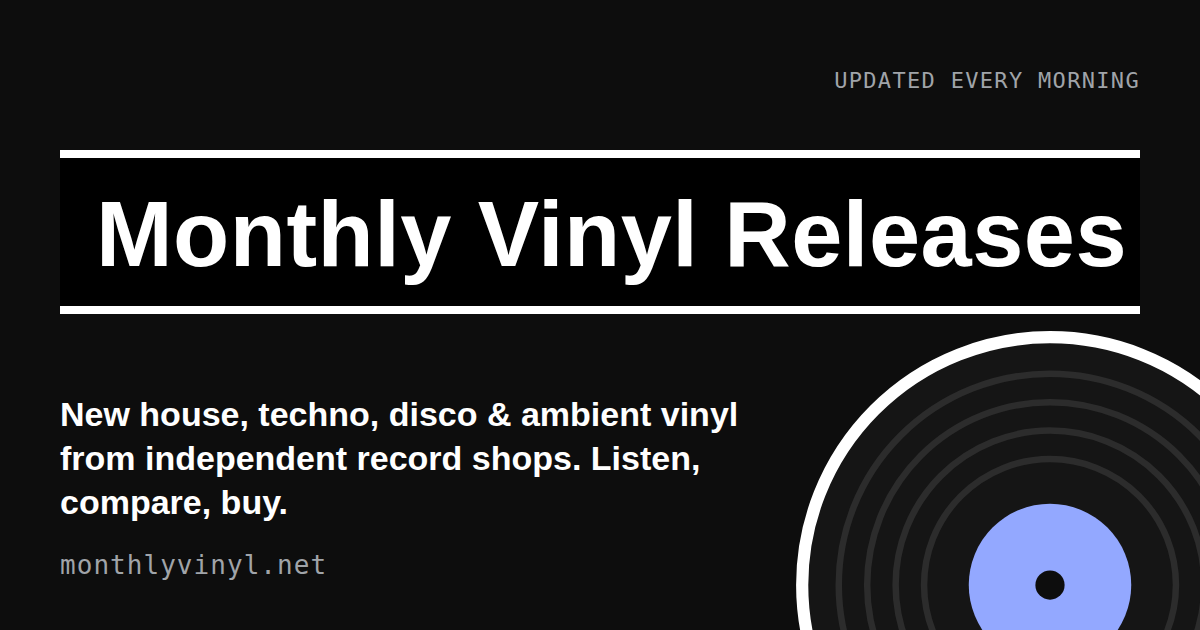
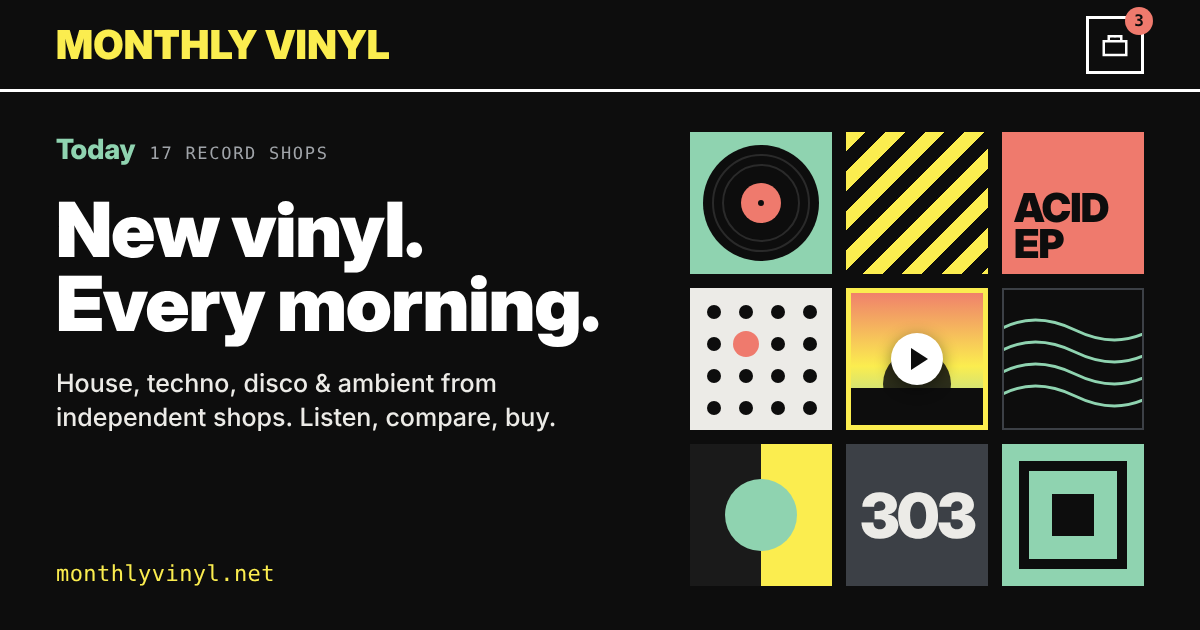
Neues Vorschaubild (og-image-v2.png) im neuen Webdesign
Claude-Session: https://claude.ai/code/session_01AWU1wCWLDa76D1kUH9S5JS

diff --git a/tools/og-image.html b/tools/og-image.html
@@ -1,0 +1,56 @@
+<!doctype html>
+<html><head><meta charset="utf-8">
+<style>
+:root{--bg:#0d0d0d;--deep:#1a1a1a;--fg:#ecebe7;--muted:#a0a4a9;--line:#3c4046;
+--neon:#8fd3b0;--pink:#ef7a6d;--yellow:#fbed4f;--white:#fff;--ink:#0d0d0d}
+*{box-sizing:border-box;margin:0}
+html,body{width:1200px;height:630px;background:var(--bg);overflow:hidden}
+body{font-family:"Inter",sans-serif;color:var(--fg);position:relative}
+.top{position:absolute;left:0;right:0;top:0;height:92px;display:flex;align-items:center;justify-content:space-between;padding:0 56px;border-bottom:3px solid var(--white)}
+.logo{font-family:"Inter Display";font-weight:900;font-size:40px;letter-spacing:.01em;color:var(--yellow);text-transform:uppercase}
+.bag{position:relative;width:58px;height:58px;border:3px solid var(--white);display:flex;align-items:center;justify-content:center}
+.bag svg{width:30px;height:30px}
+.bag b{position:absolute;top:-12px;right:-12px;min-width:28px;height:28px;padding:0 7px;border-radius:14px;background:var(--pink);color:var(--ink);font:700 16px/28px "DejaVu Sans Mono";text-align:center}
+.left{position:absolute;left:56px;top:132px;width:560px}
+.day{font:500 17px "DejaVu Sans Mono";letter-spacing:.1em;text-transform:uppercase;color:var(--muted);display:flex;gap:14px;align-items:baseline}
+.day b{font-family:"Inter Display";font-weight:800;font-size:28px;letter-spacing:0;text-transform:none;color:var(--neon)}
+h1{font-family:"Inter Display";font-weight:900;font-size:76px;line-height:.98;letter-spacing:-.015em;color:var(--white);margin-top:26px}
+p{font-size:25px;line-height:1.35;color:var(--fg);margin-top:26px;font-weight:500}
+.url{position:absolute;left:56px;bottom:44px;font:500 22px "DejaVu Sans Mono";color:var(--yellow);letter-spacing:.02em}
+.grid{position:absolute;right:56px;top:132px;display:grid;grid-template-columns:repeat(3,142px);gap:14px}
+.t{width:142px;height:142px;position:relative;overflow:hidden;background:var(--deep)}
+.t.play::after{content:"";position:absolute;inset:0;border:5px solid var(--yellow)}
+.pb{position:absolute;left:50%;top:50%;width:52px;height:52px;margin:-26px 0 0 -26px;border-radius:50%;background:var(--white);display:flex;align-items:center;justify-content:center;box-shadow:0 4px 16px rgba(0,0,0,.45)}
+.pb i{width:0;height:0;border-left:17px solid var(--ink);border-top:11px solid transparent;border-bottom:11px solid transparent;margin-left:5px}
+</style></head><body>
+<header class="top">
+  <div class="logo">Monthly Vinyl</div>
+  <div class="bag"><svg viewBox="0 0 24 24" fill="none" stroke="#fff" stroke-width="2"><path d="M3 9h18v11H3z"/><path d="M7 9V5h10v4"/><path d="M7 5h2M11 5h2M15 5h2" stroke-width="1.6"/></svg><b>3</b></div>
+</header>
+<div class="left">
+  <div class="day"><b>Today</b><span>17 record shops</span></div>
+  <h1>New vinyl.<br>Every morning.</h1>
+  <p>House, techno, disco &amp; ambient from independent shops. Listen, compare, buy.</p>
+</div>
+<div class="url">monthlyvinyl.net</div>
+<div class="grid">
+  <!-- 1 concentric record -->
+  <div class="t" style="background:var(--neon)"><svg width="142" height="142"><circle cx="71" cy="71" r="58" fill="#0d0d0d"/><circle cx="71" cy="71" r="48" fill="none" stroke="#2a2a2a" stroke-width="2"/><circle cx="71" cy="71" r="38" fill="none" stroke="#2a2a2a" stroke-width="2"/><circle cx="71" cy="71" r="20" fill="var(--pink)"/><circle cx="71" cy="71" r="3" fill="#0d0d0d"/></svg></div>
+  <!-- 2 stripes -->
+  <div class="t" style="background:repeating-linear-gradient(135deg,var(--yellow) 0 14px,#0d0d0d 14px 28px)"></div>
+  <!-- 3 type cover -->
+  <div class="t" style="background:var(--pink);display:flex;align-items:flex-end;padding:12px"><span style="font:900 40px/0.9 'Inter Display';color:#0d0d0d;letter-spacing:-.02em">ACID<br>EP</span></div>
+  <!-- 4 grid dots -->
+  <div class="t" style="background:#ecebe7"><svg width="142" height="142"><g fill="#0d0d0d"><circle cx="24" cy="24" r="7"/><circle cx="56" cy="24" r="7"/><circle cx="88" cy="24" r="7"/><circle cx="120" cy="24" r="7"/><circle cx="24" cy="56" r="7"/><circle cx="56" cy="56" r="13" fill="var(--pink)"/><circle cx="88" cy="56" r="7"/><circle cx="120" cy="56" r="7"/><circle cx="24" cy="88" r="7"/><circle cx="56" cy="88" r="7"/><circle cx="88" cy="88" r="7"/><circle cx="120" cy="88" r="7"/><circle cx="24" cy="120" r="7"/><circle cx="56" cy="120" r="7"/><circle cx="88" cy="120" r="7"/><circle cx="120" cy="120" r="7"/></g></svg></div>
+  <!-- 5 playing: sunset gradient -->
+  <div class="t play" style="background:linear-gradient(180deg,#ef7a6d 0%,#fbed4f 55%,#8fd3b0 100%)"><svg width="142" height="142" style="position:absolute;inset:0"><circle cx="71" cy="96" r="34" fill="#0d0d0d" opacity=".85"/><rect x="0" y="100" width="142" height="42" fill="#0d0d0d"/></svg><div class="pb"><i></i></div></div>
+  <!-- 6 dark waves -->
+  <div class="t" style="background:#0d0d0d;border:2px solid #3c4046"><svg width="142" height="142"><g fill="none" stroke="var(--neon)" stroke-width="3"><path d="M-5 40 Q 30 20 71 40 T 147 40"/><path d="M-5 62 Q 30 42 71 62 T 147 62"/><path d="M-5 84 Q 30 64 71 84 T 147 84"/><path d="M-5 106 Q 30 86 71 106 T 147 106"/></g></svg></div>
+  <!-- 7 split -->
+  <div class="t" style="background:linear-gradient(90deg,#1a1a1a 50%,var(--yellow) 50%)"><svg width="142" height="142"><circle cx="71" cy="71" r="36" fill="var(--neon)"/></svg></div>
+  <!-- 8 big number -->
+  <div class="t" style="background:#3c4046;display:flex;align-items:center;justify-content:center"><span style="font:900 62px 'Inter Display';color:#ecebe7;letter-spacing:-.04em">303</span></div>
+  <!-- 9 squares -->
+  <div class="t" style="background:var(--neon)"><svg width="142" height="142"><rect x="22" y="22" width="98" height="98" fill="none" stroke="#0d0d0d" stroke-width="10"/><rect x="50" y="50" width="42" height="42" fill="#0d0d0d"/></svg></div>
+</div>
+</body></html>

diff --git a/all/index.html b/all/index.html
@@ -17,7 +17,7 @@
 <meta property="og:title" content="Monthly Vinyl Releases – new house, techno, disco &amp; ambient vinyl">
 <meta property="og:description" content="New house, techno, disco &amp; ambient vinyl from independent shops like Hardwax, Clone and Phonica. Listen, compare prices, order per shop. Updated daily.">
 <meta property="og:url" content="https://monthlyvinyl.net/">
-<meta property="og:image" content="https://monthlyvinyl.net/og-image.png">
+<meta property="og:image" content="https://monthlyvinyl.net/og-image-v2.png">
 <meta property="og:image:width" content="1200">
 <meta property="og:image:height" content="630">
 <meta property="og:image:alt" content="Monthly Vinyl Releases – new vinyl from independent record shops, updated every morning">

diff --git a/index.html b/index.html
@@ -16,7 +16,7 @@
 <meta property="og:title" content="Monthly Vinyl Releases – new house, techno, disco &amp; ambient vinyl">
 <meta property="og:description" content="New house, techno, disco &amp; ambient vinyl from independent shops like Hardwax, Clone and Phonica. Listen, compare prices, order per shop. Updated daily.">
 <meta property="og:url" content="https://monthlyvinyl.net/">
-<meta property="og:image" content="https://monthlyvinyl.net/og-image.png">
+<meta property="og:image" content="https://monthlyvinyl.net/og-image-v2.png">
 <meta property="og:image:width" content="1200">
 <meta property="og:image:height" content="630">
 <meta property="og:image:alt" content="Monthly Vinyl Releases – new vinyl from independent record shops, updated every morning">

diff --git a/minimal-techno/index.html b/minimal-techno/index.html
@@ -10,7 +10,7 @@
 <meta property="og:title" content="New Minimal Techno Vinyl Releases – October 2026 | Monthly Vinyl Releases">
 <meta property="og:description" content="19 new minimal techno vinyl records from independent shops like Hardwax, Clone and Phonica. Listen, compare prices, order per shop. Updated daily.">
 <meta property="og:url" content="https://monthlyvinyl.net/minimal-techno/">
-<meta property="og:image" content="https://monthlyvinyl.net/og-image.png">
+<meta property="og:image" content="https://monthlyvinyl.net/og-image-v2.png">
 <link rel="icon" type="image/png" href="/favicon-32.png?v=2">
 <link rel="apple-touch-icon" href="/apple-touch-icon.png?v=2">
 <meta name="theme-color" content="#0d0d0d">

diff --git a/chicago-house/index.html b/chicago-house/index.html
@@ -10,7 +10,7 @@
 <meta property="og:title" content="New Chicago House Vinyl Releases – October 2026 | Monthly Vinyl Releases">
 <meta property="og:description" content="18 new chicago house vinyl records from independent shops like Hardwax, Clone and Phonica. Listen, compare prices, order per shop. Updated daily.">
 <meta property="og:url" content="https://monthlyvinyl.net/chicago-house/">
-<meta property="og:image" content="https://monthlyvinyl.net/og-image.png">
+<meta property="og:image" content="https://monthlyvinyl.net/og-image-v2.png">
 <link rel="icon" type="image/png" href="/favicon-32.png?v=2">
 <link rel="apple-touch-icon" href="/apple-touch-icon.png?v=2">
 <meta name="theme-color" content="#0d0d0d">

diff --git a/detroit-house/index.html b/detroit-house/index.html
@@ -10,7 +10,7 @@
 <meta property="og:title" content="New Detroit House Vinyl Releases – October 2026 | Monthly Vinyl Releases">
 <meta property="og:description" content="20 new detroit house vinyl records from independent shops like Hardwax, Clone and Phonica. Listen, compare prices, order per shop. Updated daily.">
 <meta property="og:url" content="https://monthlyvinyl.net/detroit-house/">
-<meta property="og:image" content="https://monthlyvinyl.net/og-image.png">
+<meta property="og:image" content="https://monthlyvinyl.net/og-image-v2.png">
 <link rel="icon" type="image/png" href="/favicon-32.png?v=2">
 <link rel="apple-touch-icon" href="/apple-touch-icon.png?v=2">
 <meta name="theme-color" content="#0d0d0d">

diff --git a/minimal-house/index.html b/minimal-house/index.html
@@ -10,7 +10,7 @@
 <meta property="og:title" content="New Minimal House Vinyl Releases – October 2026 | Monthly Vinyl Releases">
 <meta property="og:description" content="23 new minimal house vinyl records from independent shops like Hardwax, Clone and Phonica. Listen, compare prices, order per shop. Updated daily.">
 <meta property="og:url" content="https://monthlyvinyl.net/minimal-house/">
-<meta property="og:image" content="https://monthlyvinyl.net/og-image.png">
+<meta property="og:image" content="https://monthlyvinyl.net/og-image-v2.png">
 <link rel="icon" type="image/png" href="/favicon-32.png?v=2">
 <link rel="apple-touch-icon" href="/apple-touch-icon.png?v=2">
 <meta name="theme-color" content="#0d0d0d">

diff --git a/acid-techno/index.html b/acid-techno/index.html
@@ -10,7 +10,7 @@
 <meta property="og:title" content="New Acid Techno Vinyl Releases – October 2026 | Monthly Vinyl Releases">
 <meta property="og:description" content="17 new acid techno vinyl records from independent shops like Hardwax, Clone and Phonica. Listen, compare prices, order per shop. Updated daily.">
 <meta property="og:url" content="https://monthlyvinyl.net/acid-techno/">
-<meta property="og:image" content="https://monthlyvinyl.net/og-image.png">
+<meta property="og:image" content="https://monthlyvinyl.net/og-image-v2.png">
 <link rel="icon" type="image/png" href="/favicon-32.png?v=2">
 <link rel="apple-touch-icon" href="/apple-touch-icon.png?v=2">
 <meta name="theme-color" content="#0d0d0d">

diff --git a/italo-disco/index.html b/italo-disco/index.html
@@ -10,7 +10,7 @@
 <meta property="og:title" content="New Italo Disco Vinyl Releases – October 2026 | Monthly Vinyl Releases">
 <meta property="og:description" content="20 new italo disco vinyl records from independent shops like Hardwax, Clone and Phonica. Listen, compare prices, order per shop. Updated daily.">
 <meta property="og:url" content="https://monthlyvinyl.net/italo-disco/">
-<meta property="og:image" content="https://monthlyvinyl.net/og-image.png">
+<meta property="og:image" content="https://monthlyvinyl.net/og-image-v2.png">
 <link rel="icon" type="image/png" href="/favicon-32.png?v=2">
 <link rel="apple-touch-icon" href="/apple-touch-icon.png?v=2">
 <meta name="theme-color" content="#0d0d0d">

diff --git a/deep-techno/index.html b/deep-techno/index.html
@@ -10,7 +10,7 @@
 <meta property="og:title" content="New Deep Techno Vinyl Releases – October 2026 | Monthly Vinyl Releases">
 <meta property="og:description" content="6 new deep techno vinyl records from independent shops like Hardwax, Clone and Phonica. Listen, compare prices, order per shop. Updated daily.">
 <meta property="og:url" content="https://monthlyvinyl.net/deep-techno/">
-<meta property="og:image" content="https://monthlyvinyl.net/og-image.png">
+<meta property="og:image" content="https://monthlyvinyl.net/og-image-v2.png">
 <link rel="icon" type="image/png" href="/favicon-32.png?v=2">
 <link rel="apple-touch-icon" href="/apple-touch-icon.png?v=2">
 <meta name="theme-color" content="#0d0d0d">

diff --git a/deep-house/index.html b/deep-house/index.html
@@ -10,7 +10,7 @@
 <meta property="og:title" content="New Deep House Vinyl Releases – October 2026 | Monthly Vinyl Releases">
 <meta property="og:description" content="186 new deep house vinyl records from independent shops like Hardwax, Clone and Phonica. Listen, compare prices, order per shop. Updated daily.">
 <meta property="og:url" content="https://monthlyvinyl.net/deep-house/">
-<meta property="og:image" content="https://monthlyvinyl.net/og-image.png">
+<meta property="og:image" content="https://monthlyvinyl.net/og-image-v2.png">
 <link rel="icon" type="image/png" href="/favicon-32.png?v=2">
 <link rel="apple-touch-icon" href="/apple-touch-icon.png?v=2">
 <meta name="theme-color" content="#0d0d0d">

diff --git a/tech-house/index.html b/tech-house/index.html
@@ -10,7 +10,7 @@
 <meta property="og:title" content="New Tech House Vinyl Releases – October 2026 | Monthly Vinyl Releases">
 <meta property="og:description" content="153 new tech house vinyl records from independent shops like Hardwax, Clone and Phonica. Listen, compare prices, order per shop. Updated daily.">
 <meta property="og:url" content="https://monthlyvinyl.net/tech-house/">
-<meta property="og:image" content="https://monthlyvinyl.net/og-image.png">
+<meta property="og:image" content="https://monthlyvinyl.net/og-image-v2.png">
 <link rel="icon" type="image/png" href="/favicon-32.png?v=2">
 <link rel="apple-touch-icon" href="/apple-touch-icon.png?v=2">
 <meta name="theme-color" content="#0d0d0d">
